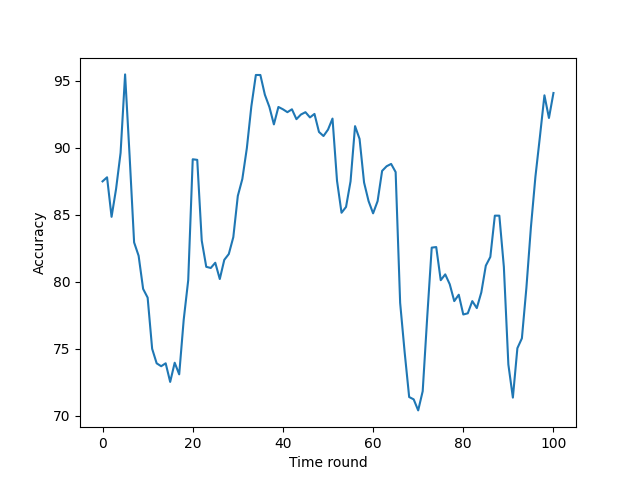
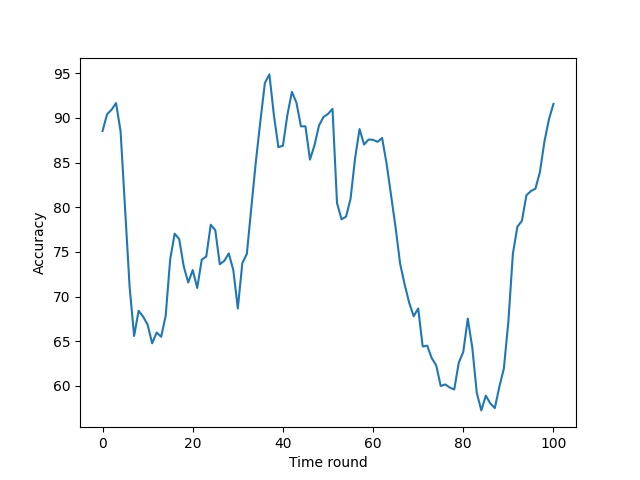
update0420

diff --git a/Toy/model/model.py b/Toy/model/model.py
@@ -12,6 +12,8 @@ import ot
 from sklearn.manifold import MDS
 import json
 import random
+from scipy.ndimage import gaussian_filter1d
+from scipy.signal.windows import triang
 # const
 LARGE_NUM = 1e9
 
@@ -41,6 +43,24 @@ def write_pickle(data, name):
 def repeat_data(data, expand_size):
     repeat_times = (expand_size + data.shape[0] - 1) // data.shape[0]
     return data.repeat(repeat_times, 1)[:expand_size]
+
+
+@staticmethod
+def get_kernel_window(kernel, ks, sigma):
+    assert kernel in ['gaussian', 'triang', 'laplace']
+    half_ks = (ks - 1) // 2
+    if kernel == 'gaussian':
+        base_kernel = [0.] * half_ks + [1.] + [0.] * half_ks
+        base_kernel = np.array(base_kernel, dtype=np.float32)
+        kernel_window = gaussian_filter1d(base_kernel, sigma=sigma) / sum(gaussian_filter1d(base_kernel, sigma=sigma))
+    elif kernel == 'triang':
+        kernel_window = triang(ks) / sum(triang(ks))
+    else:
+        laplace = lambda x: np.exp(-abs(x) / sigma) / (2. * sigma)
+        kernel_window = list(map(laplace, np.arange(-half_ks, half_ks + 1))) / sum(map(laplace, np.arange(-half_ks, half_ks + 1)))
+
+    print(f'Using FDS: [{kernel.upper()}] ({ks}/{sigma})')
+    return torch.tensor(kernel_window, dtype=torch.float32).cuda()
 
 # =========================
 # the base model
@@ -393,7 +413,24 @@ class BaseModel(nn.Module):
                 self.domain_buffer[this_domain] = torch.cat([this_domain_domain[valid_idx], self.domain_buffer[this_domain][:-valid]], dim=0)
                 # print(self.x_buffer[this_domain].shape, self.y_buffer[this_domain].shape, self.domain_buffer[this_domain].shape)
                 # exit(0)
-        
+    
+    def __reweight_domain_index__(self):
+        # kernel_window = get_kernel_window(self.opt.kernel_type, self.opt.kernel_ks, self.opt.kernel_sigma)
+        # half_ks = (self.opt.ks - 1) // 2
+        freq = self.domain_sel_mask.sum(dim=1) / self.opt.batch_size
+        # print(freq.shape)
+        # print(freq)
+        freq_weight = 1. / freq
+        # print(freq_weight, self.domain_sel)
+        for idx, elem in enumerate(range(self.opt.num_domain)):
+            if elem in self.domain_sel:
+                continue
+            freq_weight[elem] *= (self.opt.num_buffersamples / self.opt.batch_size)
+        # print(freq_weight)
+        # assert False
+        print(self.beta_seq.shape, freq_weight.shape)
+        self.beta_seq *= freq_weight.unsqueeze(1)
+        pass
 
     def __train_forward__(self):
         self.u_seq, self.u_mu_seq, self.u_log_var_seq = self.netU(self.x_seq)
@@ -408,7 +445,10 @@ class BaseModel(nn.Module):
             self.tmp_beta_seq = self.generate_beta(self.u_seq)
             self.beta_seq, self.beta_log_var_seq = self.netBeta(
                 self.tmp_beta_seq, self.tmp_beta_seq)
-
+        if self.train:
+            if self.opt.imbal:
+                self.__reweight_domain_index__()
+        
         self.beta_U_seq = self.netBeta2U(self.beta_seq)
 
         self.q_z_seq, self.q_z_mu_seq, self.q_z_log_var_seq, self.p_z_seq, self.p_z_mu_seq, self.p_z_log_var_seq, = self.netZ(

diff --git a/Toy/main.py b/Toy/main.py
@@ -161,8 +161,8 @@ plt.clf()
 # domain_weights = None
 
 alpha = np.ones(opt.num_domain)
-rng_dirichlet = np.random.default_rng(seed=42)
-rng_choice = np.random.default_rng(seed=42)
+rng_dirichlet = np.random.default_rng(seed=49)
+rng_choice = np.random.default_rng(seed=49)
 from copy import deepcopy
 ref_opt = deepcopy(opt)
 ref_opt.use_pretrain_model_all = True
@@ -200,11 +200,19 @@ if opt.use_pretrain_model_warmup:
         domain_weights = dirichlet_weights
 
         if not opt.upperbound:
-            domain_sampled = rng_choice.choice(opt.num_domain, size=opt.k, replace=False, p=domain_weights)
+            domain_sampled = rng_choice.choice(opt.num_domain, size=opt.k, replace=False, p=np.ones(opt.num_domain)/opt.num_domain)
             domain_sel = np.sort(domain_sampled).tolist()
             re_norm_log = domain_weights[domain_sel]
             domain_weight_renorm = re_norm_log / np.sum(re_norm_log)
-            # domain_weight_renorm = np.ones_like(domain_sel)
+            domain_weight_renorm *= opt.batch_size / domain_weight_renorm.max()
+            domain_weight_renorm = np.clip(domain_weight_renorm.astype(int), a_min=3, a_max=16)
+            domain_weight_renorm = sorted(domain_weight_renorm)
+            plt.plot(np.arange(len(domain_weight_renorm)), domain_weight_renorm)
+            plt.show()
+            plt.savefig('./test_imbal.png')
+            plt.clf()
+            assert False
+            domain_weight_renorm = np.ones_like(domain_sel)
         else:
             domain_sel = np.arange(opt.num_domain).tolist()
             domain_weight_renorm = np.ones_like(domain_sel)

diff --git a/Toy/configs/config_Circle_growing.py b/Toy/configs/config_Circle_growing.py
@@ -76,6 +76,10 @@ opt.upperbound = False
 opt.online = True
 # opt.online = False
 
-opt.k = 15
+opt.k = 5
 opt.use_buffer = True
 opt.num_buffersamples = 10
+opt.imbal = False
+opt.kernel_type = 'None'
+opt.kernel_ks = 5
+opt.kernel_sigma = 2
